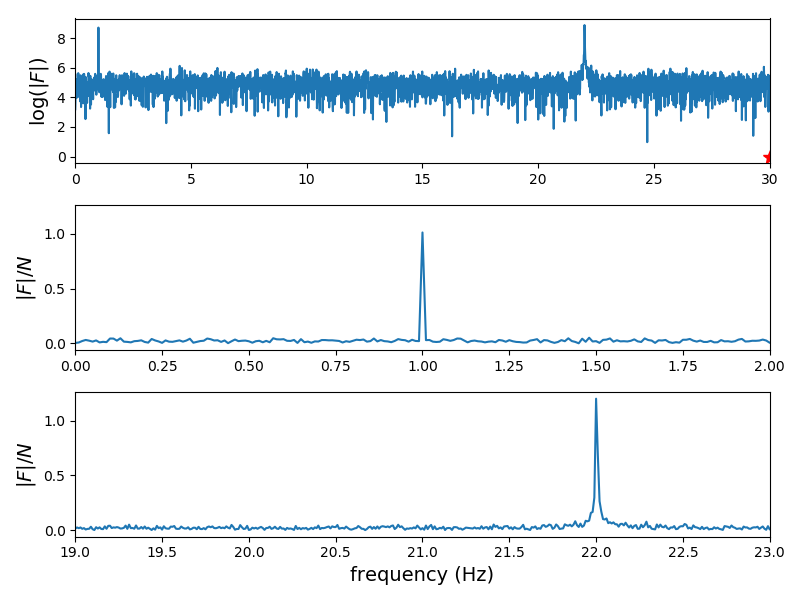
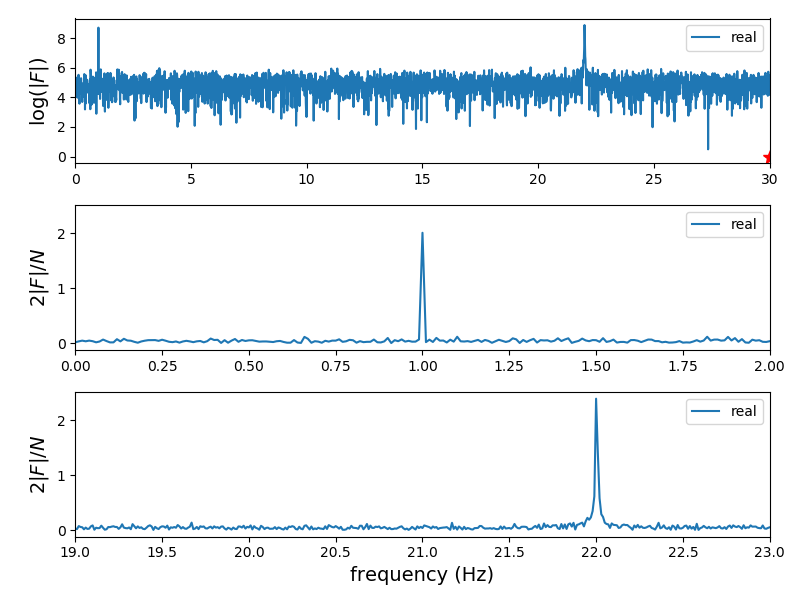
FFT files moved.

diff --git a/Numerical_Python_johansson/signal_processig.py b/Numerical_Python_johansson/signal_processig.py
@@ -10,13 +10,13 @@ from scipy import signal
 from scipy import fftpack
 
 
-def signal_samples(t):
-    return (2 * np.sin(2 * pi * t) + 3 * np.sin(22 * 2 * pi * t) +
+def signal_samples(t, nu0=1.0, nu1=22.0):
+    return (2 * np.sin(2 * pi * t * nu0) + 3.0 * np.sin(2 * pi * t * nu1) +
             2 * np.random.randn(*np.shape(t)))
 
 
 # ------------------------------------------------------------------#
-B = 30.0
+B = 30.0 # max freqeuency to be measured.
 f_s = 2 * B
 delta_f = 0.01
 N = int(f_s / delta_f)
@@ -33,7 +33,7 @@ def plot_1():
     ax[1].plot(t, f_t)
     ax[1].set_xlim(0, 5)
     ax[1].set_xlabel("Time (s)")
-    fig.savefig("data/ch17-signal.png")
+    fig.savefig("data/ch17-1-signal.png")
     fig.tight_layout()
     pl.close()
 
@@ -44,7 +44,6 @@ F = fftpack.fft(f_t)
 f = fftpack.fftfreq(N, 1.0 / f_s)
 mask = np.where(f >= 0)
 
-
 def plot_2():
     fig, ax = pl.subplots(3, 1, figsize=(8, 6))
     ax[0].plot(f[mask], np.log(abs(F[mask])), label="real")
@@ -52,19 +51,22 @@ def plot_2():
     ax[0].set_xlim(0, 30)
     ax[0].set_ylabel("$\log(|F|)$", fontsize=14)
 
-    ax[1].plot(f[mask], abs(F[mask])/N, label="real")
+    ax[1].plot(f[mask], 2.0 * abs(F[mask])/N, label="real")
     ax[1].set_xlim(0, 2)
-    ax[1].set_ylabel("$|F|/N$", fontsize=14)
+    ax[1].set_ylabel("2$|F|/N$", fontsize=14)
 
-    ax[2].plot(f[mask], abs(F[mask])/N, label="real")
+    ax[2].plot(f[mask], 2.0 * abs(F[mask])/N, label="real")
     ax[2].set_xlim(19, 23)
     ax[2].set_xlabel("frequency (Hz)", fontsize=14)
-    ax[2].set_ylabel("$|F|/N$", fontsize=14)
+    ax[2].set_ylabel("2$|F|/N$", fontsize=14)
+    for i in range(3):
+        ax[i].legend()
 
     fig.tight_layout()
-    fig.savefig("data/ch17-simulated-signal-spectrum.png")
+    fig.savefig("data/ch17-2-simulated-signal-spectrum.png")
     pl.close()
 
+# plot_2()
 # ------------------------------------------------------------------#
 # Frequency-domain Filter
 

diff --git a/scipy-FFT/01_fft.py b/scipy-FFT/01_fft.py
@@ -1,0 +1,62 @@
+import numpy as np
+import pylab as pl
+from math import pi
+from scipy.fftpack import fft, fftshift
+from scipy import fftpack
+
+
+def find_frequencies(signal, dt):
+    from scipy.fftpack import fft
+    N = len(signal)
+    xf = np.linspace(0.0, 1.0 / (2.0 * dt), N / 2)
+    yf = fft(signal)
+    yfplot = 2.0 / N * np.abs(yf[0:N // 2])
+    return xf, yfplot
+
+# def find_frequencies(signal, dt):
+#     N = len(signal)
+#     T = N*dt
+#     t = np.linspace(0.0, T, N)
+#     f = np.linspace(-1. / (2.0 * dt), 1. / (2.0 * dt), N)
+#     fy = fft(signal) / float(N)
+#     fy = fftshift(fy)
+#     yfplot = np.abs(fy)
+#     return f, yfplot
+
+def findFrequencySpectrum(signal, fs):
+    
+    N = len(signal)
+    F = fftpack.fft(signal)
+    f = fftpack.fftfreq(N, 1.0 / fs)
+    mask = np.where(f >= 0)
+
+    fig, ax = pl.subplots(1, figsize=(5, 4))
+    ax.plot(f[mask], 2.0 * abs(F[mask])/N, label="real")
+    ax.set_ylabel("$|F|/N$", fontsize=14)
+
+    ax.set_xlabel("frequency (Hz)", fontsize=14)
+    ax.set_ylabel("$|F|/N$", fontsize=14)
+    ax.legend()
+
+    fig.tight_layout()
+    fig.savefig("fig.png")
+    pl.show()
+    pl.close()
+
+
+
+
+def signal_samples(t, nu0=1.0, nu1=22.0, amp0=2.0, amp1=3.0, ampNoise=1.0):
+    return (amp0 * np.sin(2 * pi * t * nu0) + amp1 * np.sin(2 * pi * t * nu1) +
+            ampNoise * np.random.randn(*np.shape(t)))
+
+
+B = 30.0  # max freqeuency to be measured.
+fs = 2 * B
+delta_f = 0.01
+N = int(fs / delta_f)
+T = N / fs
+t = np.linspace(0, T, N)
+ft = signal_samples(t, nu0=1.5, amp0=3, nu1=22.1, amp1=1.0, ampNoise=1.0)
+
+findFrequencySpectrum(ft, fs)

diff --git a/scipy-FFT/practice/ref/fft_p.py b/scipy-FFT/practice/ref/fft_p.py
@@ -4,23 +4,23 @@ Fourier Transforms
 '''
 
 from scipy.fftpack import fft, fftfreq, fftshift, ifft
-import numpy as np 
+import numpy as np
 import pylab as pl
 from sys import exit
 
 N = 2**10         # Number of sample points
 dt = 1.0/800.0    # sample spacing
 T = N*dt
-t = np.linspace(0.0,T,N)
-f = np.linspace(-1./(2.0*dt),1./(2.0*dt),N)
+t = np.linspace(0.0, T, N)
+f = np.linspace(-1./(2.0*dt), 1./(2.0*dt), N)
 nu1 = 50.0
 nu2 = 110.0
 y = 3*np.exp(2j*np.pi*nu1*t) + 6*np.exp(2j*np.pi*(-nu2)*t)
-y = y + np.random.normal(0,2,size=N)
-fig,(ax1,ax2) = pl.subplots(2)
-ax1.plot(t[:100],np.real(y[:100]))
+y = y + np.random.normal(0, 2, size=N)
+fig, (ax1, ax2) = pl.subplots(2)
+ax1.plot(t[:100], np.real(y[:100]))
 fy = fft(y)/float(N)
 fy = fftshift(fy)
-ax2.plot(f,np.abs(fy))
+ax2.plot(f, np.abs(fy))
 pl.savefig('f.png')
 pl.show()

diff --git a/scipy-FFT/practice/find_freq.py b/scipy-FFT/practice/find_freq.py
@@ -1,4 +1,4 @@
-def find_frequencies(self, x, y, I, fs, method='welch'):
+def find_frequencies(x, y, I, fs, method='welch'):
         if method == 'FFT':
             from scipy.fftpack import fft
             N = len(x)
